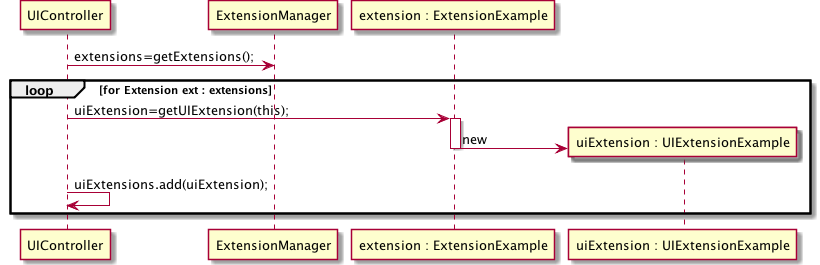
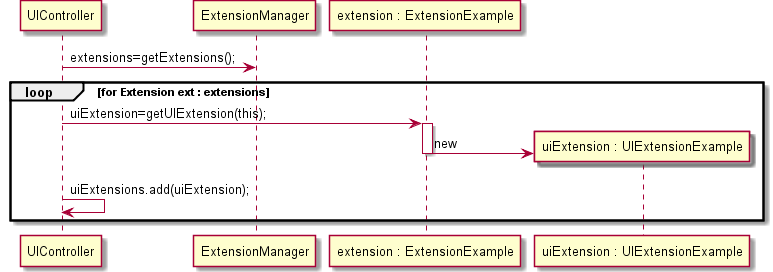
Added Diagrams [UC, SD (startup)] and Javadoc #1 #2

diff --git a/src/csheets/ext/share/package-info.java b/src/csheets/ext/share/package-info.java
@@ -1,0 +1,102 @@
+/**
+ * An extension to share cells throw network.
+ * 
+ * <p>
+ * <b>Use Case Diagram</b>
+ * </p>
+ * <img src="doc-files/use_case_diagram.png">
+ * 
+ * <p>
+ * <b>Startup Sequence Diagram - Startup Extension</b>
+ * </p>
+ * <img src="doc-files/sd_start_ext.png">
+ * 
+ * <p>
+ * <b>Startup Sequence Diagram - Menu Creation</b>
+ * </p>
+ * <img src="doc-files/sd_start_menu.png">
+ * 
+ * <p>
+ * <b>Startup Sequence Diagram - Interface Creation</b>
+ * </p>
+ * <img src="doc-files/sd_start_int.png">
+ * 
+ * 
+ * 
+ * @author Andre Silva
+ */
+/*
+
+ @startuml doc-files/use_case_diagram.png
+
+ left to right direction
+
+ Actor user
+
+ user --> (Share cells throw network)
+ user --> (Receive cells throw network)
+ @enduml
+
+ @startuml doc-files/sd_start_ext.png
+
+ participant ExtensionManager as ExtM
+ participant Class
+ participant "aClass:Class" as aClass
+ participant "extension : SharingExtension" as ESharing
+ ExtM -> Class : aClass = forName("csheets.ext.share.SharingExtension");
+ activate Class
+ create aClass
+ Class -> aClass : new
+ deactivate Class
+ ExtM -> aClass : extension = (Extension)newInstance();
+ activate aClass
+ create ESharing
+ aClass -> ESharing : new
+ deactivate aClass
+ ExtM -> ESharing : name = getName();
+ activate ESharing
+ deactivate ESharing
+ ExtM -> ExtM : extensionMap.put(name, extension)
+ @enduml
+
+ @startuml doc-files/sd_start_int.png
+ participant UIController as UIC
+ participant ExtensionManager as ExtM
+ participant "extension : SharingExtension" as ESharing
+ participant "uiExtension : UISharingExtension" as UIShr
+ UIC -> ExtM : extensions=getExtensions();
+ loop for Extension ext : extensions
+ UIC -> ESharing : uiExtension=getUIExtension(this);
+ activate ESharing
+ create UIShr
+ ESharing -> UIShr : new
+ deactivate ESharing
+ UIC -> UIC : uiExtensions.add(uiExtension);
+ end
+ @enduml
+
+
+ @startuml doc-files/sd_start_menu.png
+ participant MenuBar as MB
+ participant "extensionsMenu : JMenu" as extensionsMenu
+ participant UIController as UIC
+ participant "extension : UISharingExtension" as UIS
+ participant "extensionMenu : SharingMenu" as SM 
+ MB -> MB : extensionsMenu = addMenu("Extensions", KeyEvent.VK_X);
+ activate MB
+ create extensionsMenu
+ MB -> extensionsMenu : new
+ deactivate MB
+ MB -> UIC : extensions=getExtensions();
+ loop for UIExtension extension : extensions
+ MB -> UIS : extensionMenu=extension.getMenu();
+ activate UIS
+ create SM
+ UIS -> SM : new
+ deactivate UIS
+ MB -> SM : icon = getIcon();
+ MB -> extensionsMenu : add(extensionMenu); 
+ end
+ @enduml
+ */
+package csheets.ext.share;
